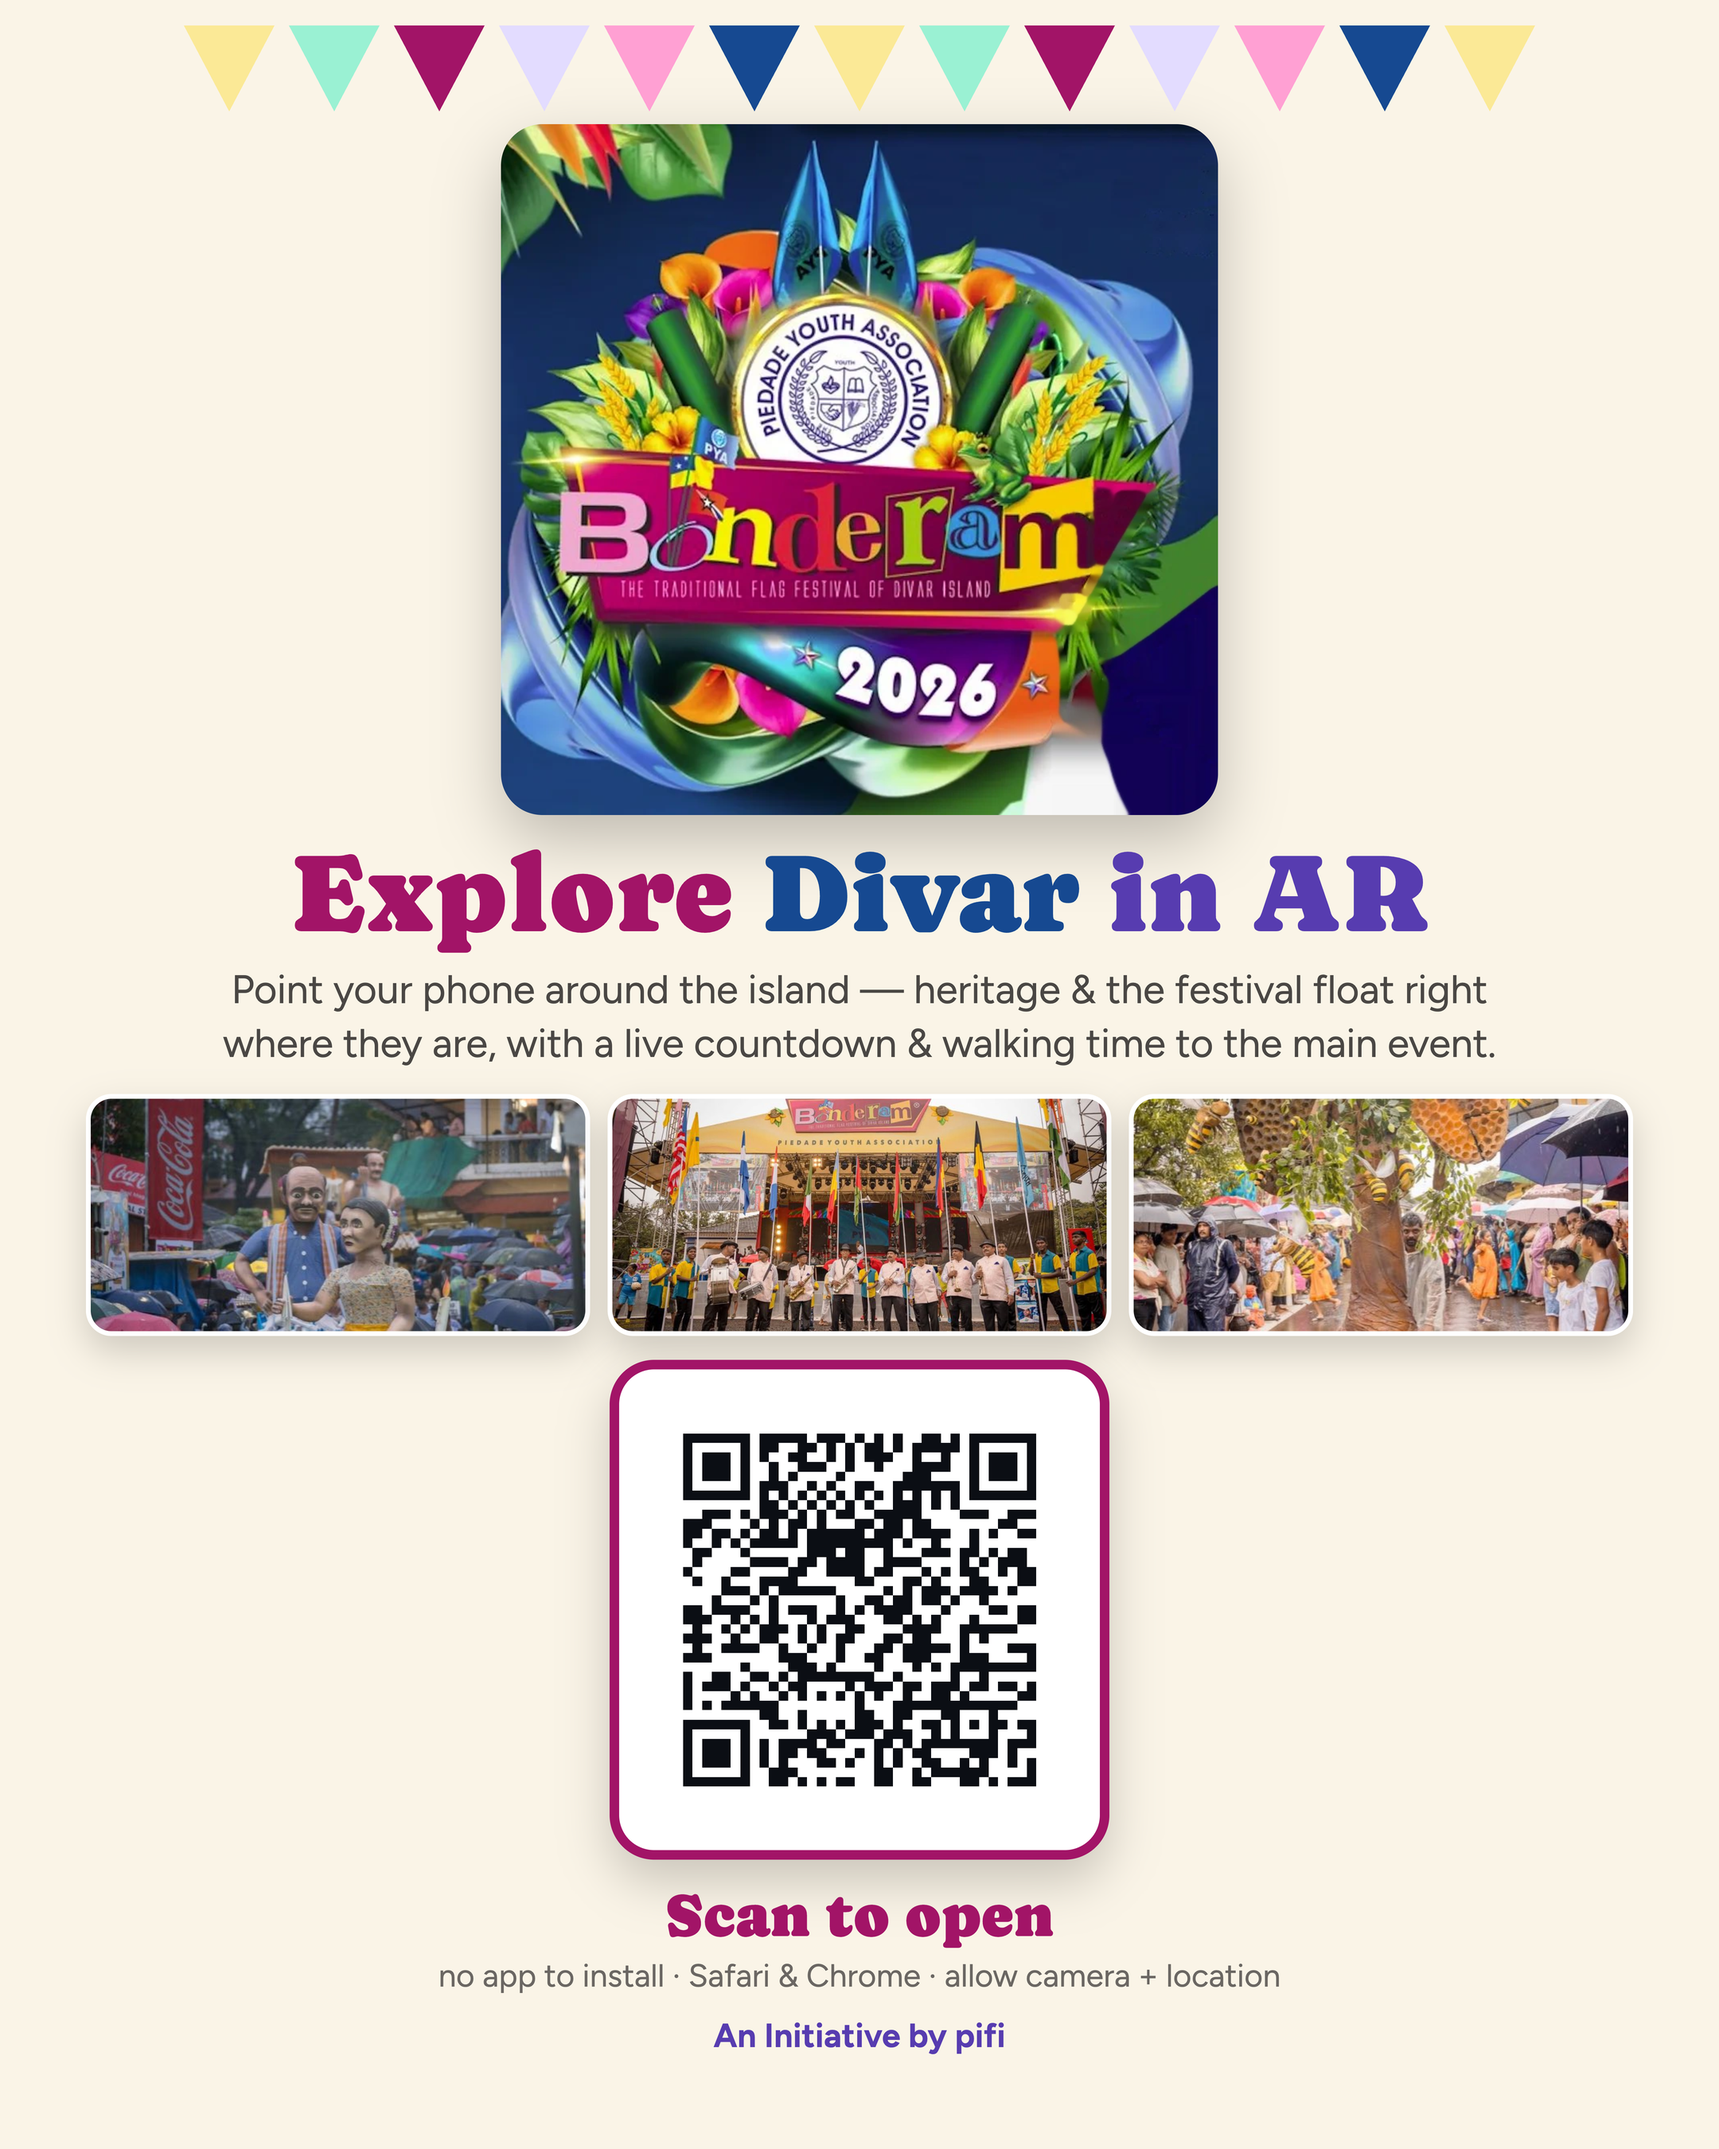
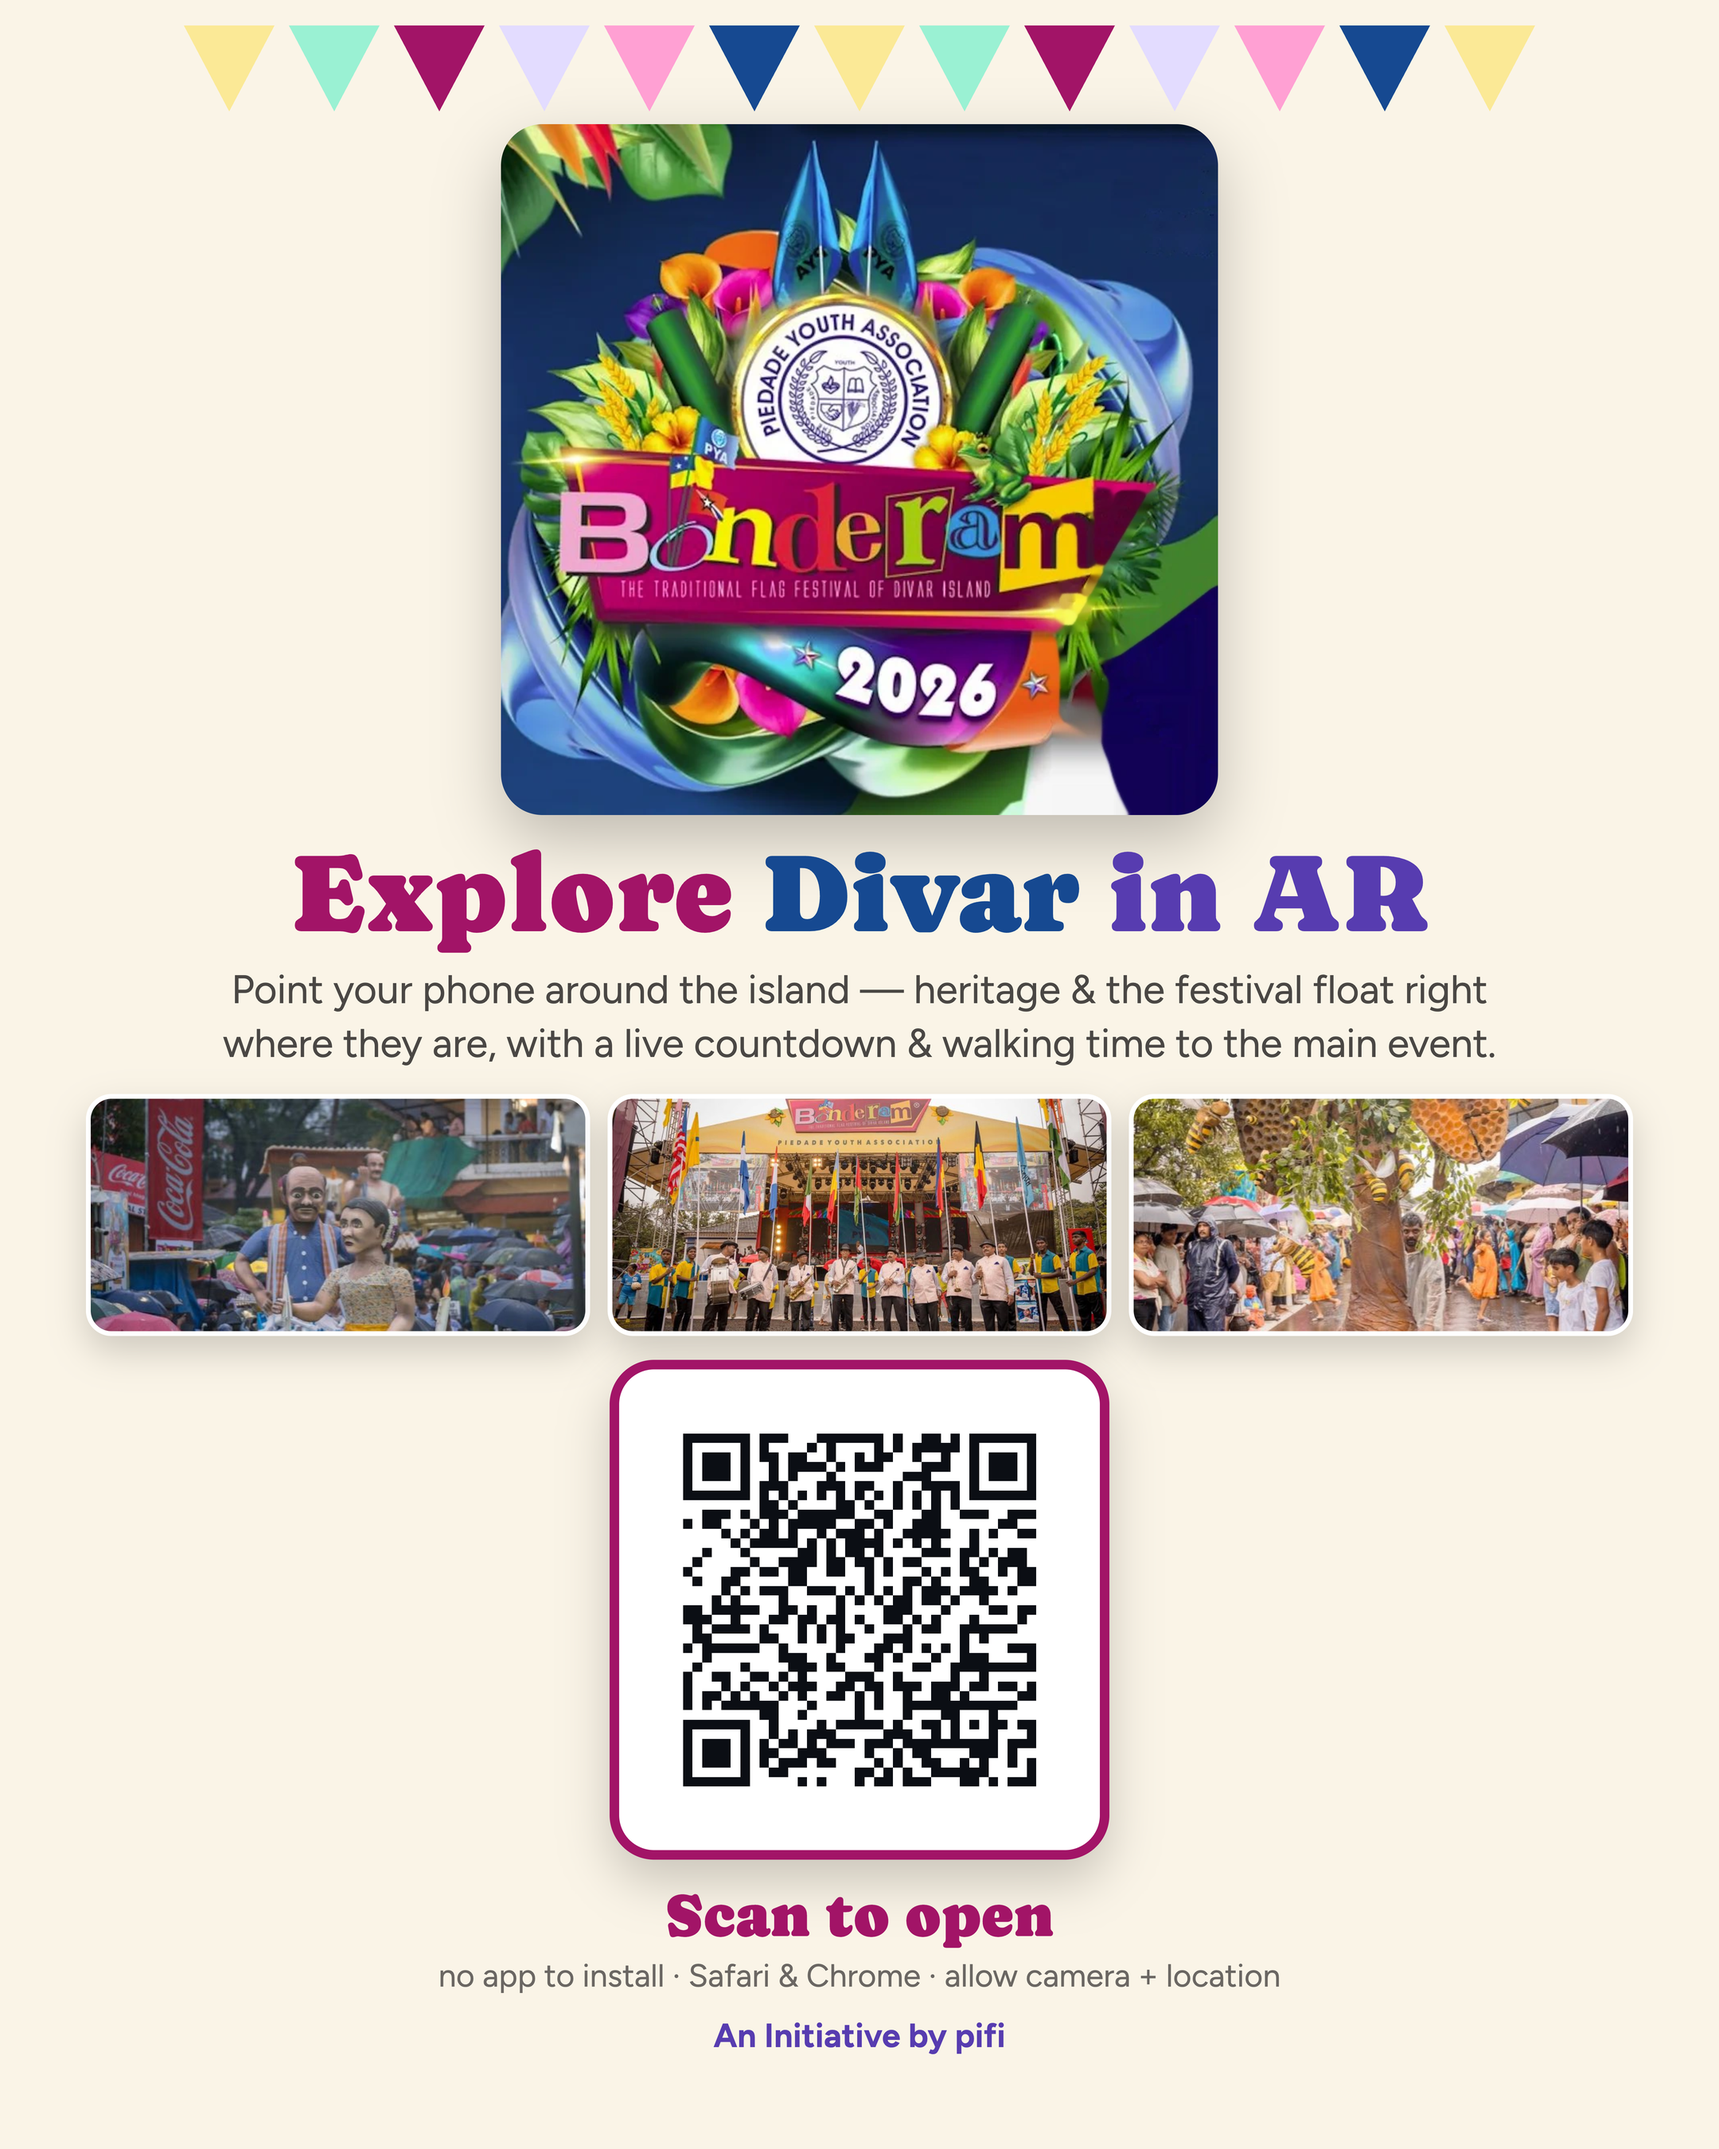
Analytics: Cloudflare Web Analytics beacon; QR -> /s/ scan-landing (beacon+redirect) so scans are counted separately from direct visits; re-render poster+QR to /s/

Changed region(s): [[0.4032, 0.6533, 0.5583, 0.84]]

diff --git a/public/s/index.html b/public/s/index.html
@@ -1,0 +1,26 @@
+<!doctype html>
+<html lang="en">
+<head>
+  <meta charset="utf-8" />
+  <meta name="viewport" content="width=device-width, initial-scale=1" />
+  <meta name="theme-color" content="#0b0e14" />
+  <title>Opening Divar AR&hellip;</title>
+  <!-- Cloudflare Web Analytics: this /s/ path = QR scans (kept separate from direct visits to /divar-ar/) -->
+  <script defer src="https://static.cloudflareinsights.com/beacon.min.js" data-cf-beacon='{"token": "ea8620fbb23e465a8a254c4fa4610f1f"}'></script>
+  <style>
+    html, body { margin: 0; height: 100%; background: #0b0e14; color: #f2f4f8;
+      font-family: system-ui, -apple-system, sans-serif; display: flex; align-items: center; justify-content: center; }
+    .s { text-align: center; opacity: 0.9; }
+    .dot { display: inline-block; width: 30px; height: 30px; border-radius: 50%; border: 3px solid #2fd47a;
+      border-top-color: transparent; animation: sp 0.8s linear infinite; margin-bottom: 12px; }
+    @keyframes sp { to { transform: rotate(360deg); } }
+  </style>
+</head>
+<body>
+  <div class="s"><div class="dot"></div><div>Opening Divar AR&hellip;</div></div>
+  <script>
+    // Let the analytics beacon fire on this path, then hand off to the app.
+    setTimeout(function () { location.replace('/divar-ar/'); }, 700);
+  </script>
+</body>
+</html>

diff --git a/index.html b/index.html
@@ -5,6 +5,8 @@
   <meta name="viewport" content="width=device-width, initial-scale=1, maximum-scale=1, user-scalable=no, viewport-fit=cover" />
   <meta name="theme-color" content="#0b0e14" />
   <title>Divar &mdash; The Paradise Island</title>
+  <!-- Cloudflare Web Analytics -->
+  <script defer src="https://static.cloudflareinsights.com/beacon.min.js" data-cf-beacon='{"token": "ea8620fbb23e465a8a254c4fa4610f1f"}'></script>
   <link rel="preconnect" href="https://fonts.googleapis.com" />
   <link rel="preconnect" href="https://fonts.gstatic.com" crossorigin />
   <link href="https://fonts.googleapis.com/css2?family=Caprasimo&family=Figtree:wght@400;600;700;800&display=swap" rel="stylesheet" />
